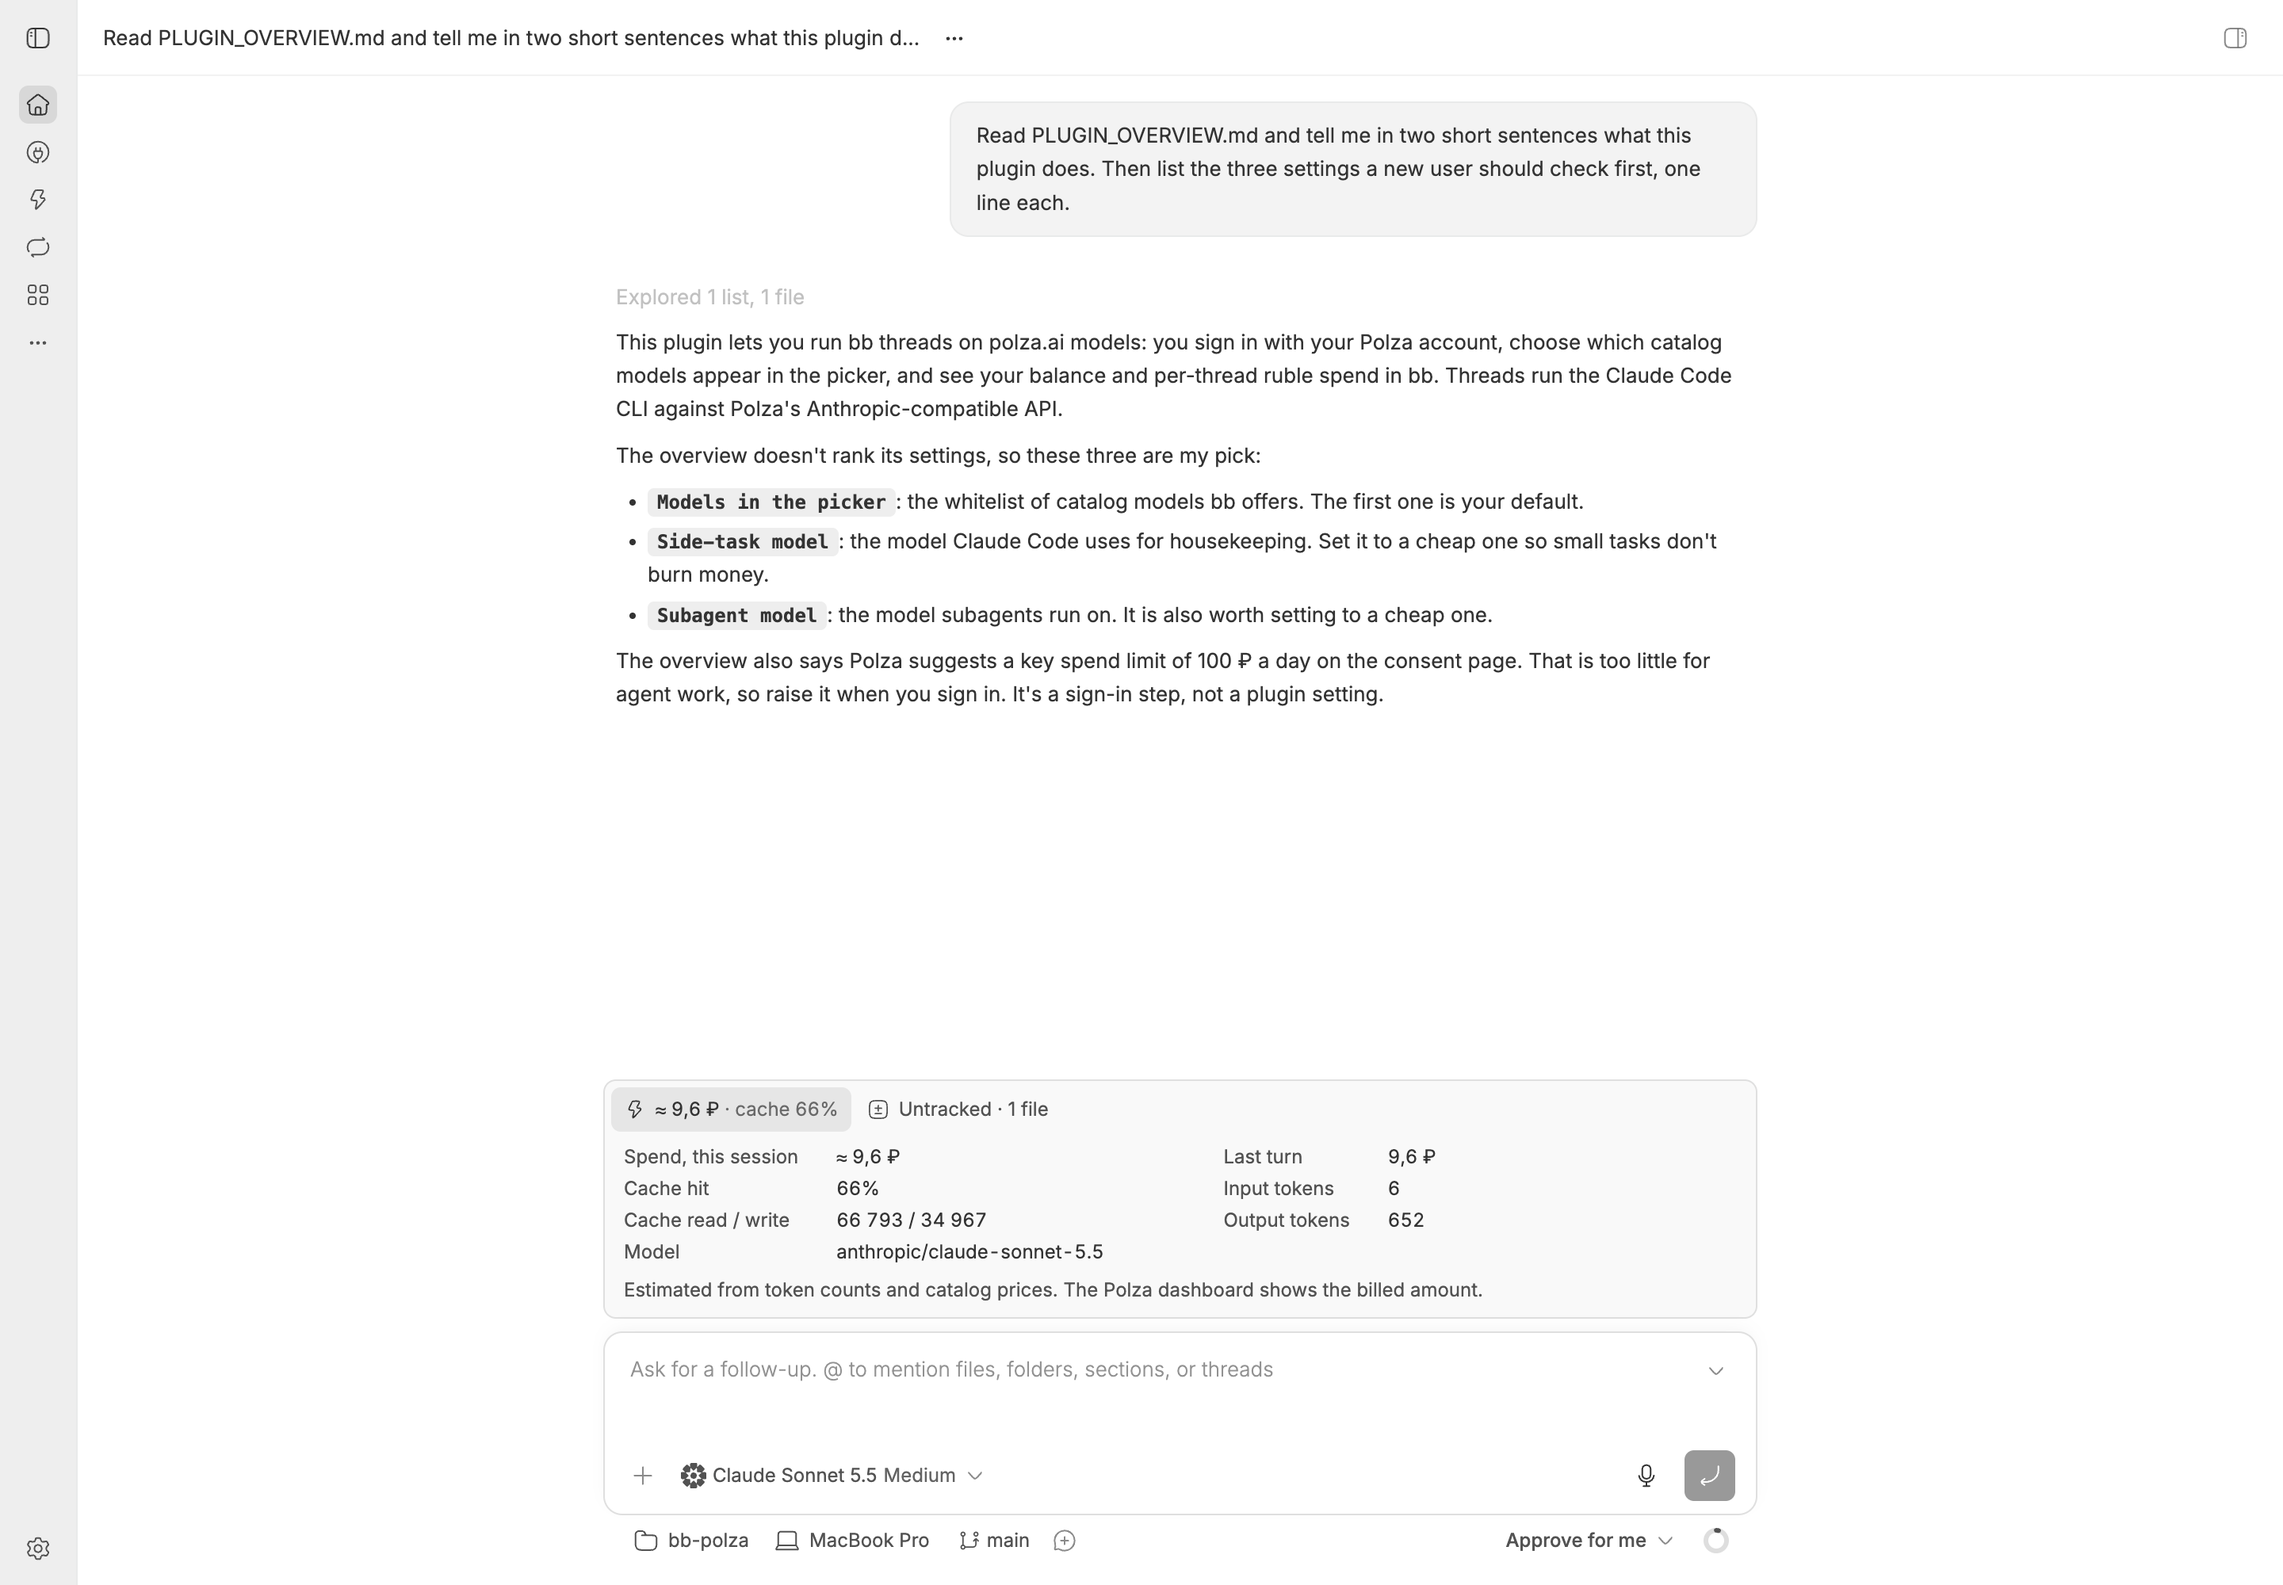
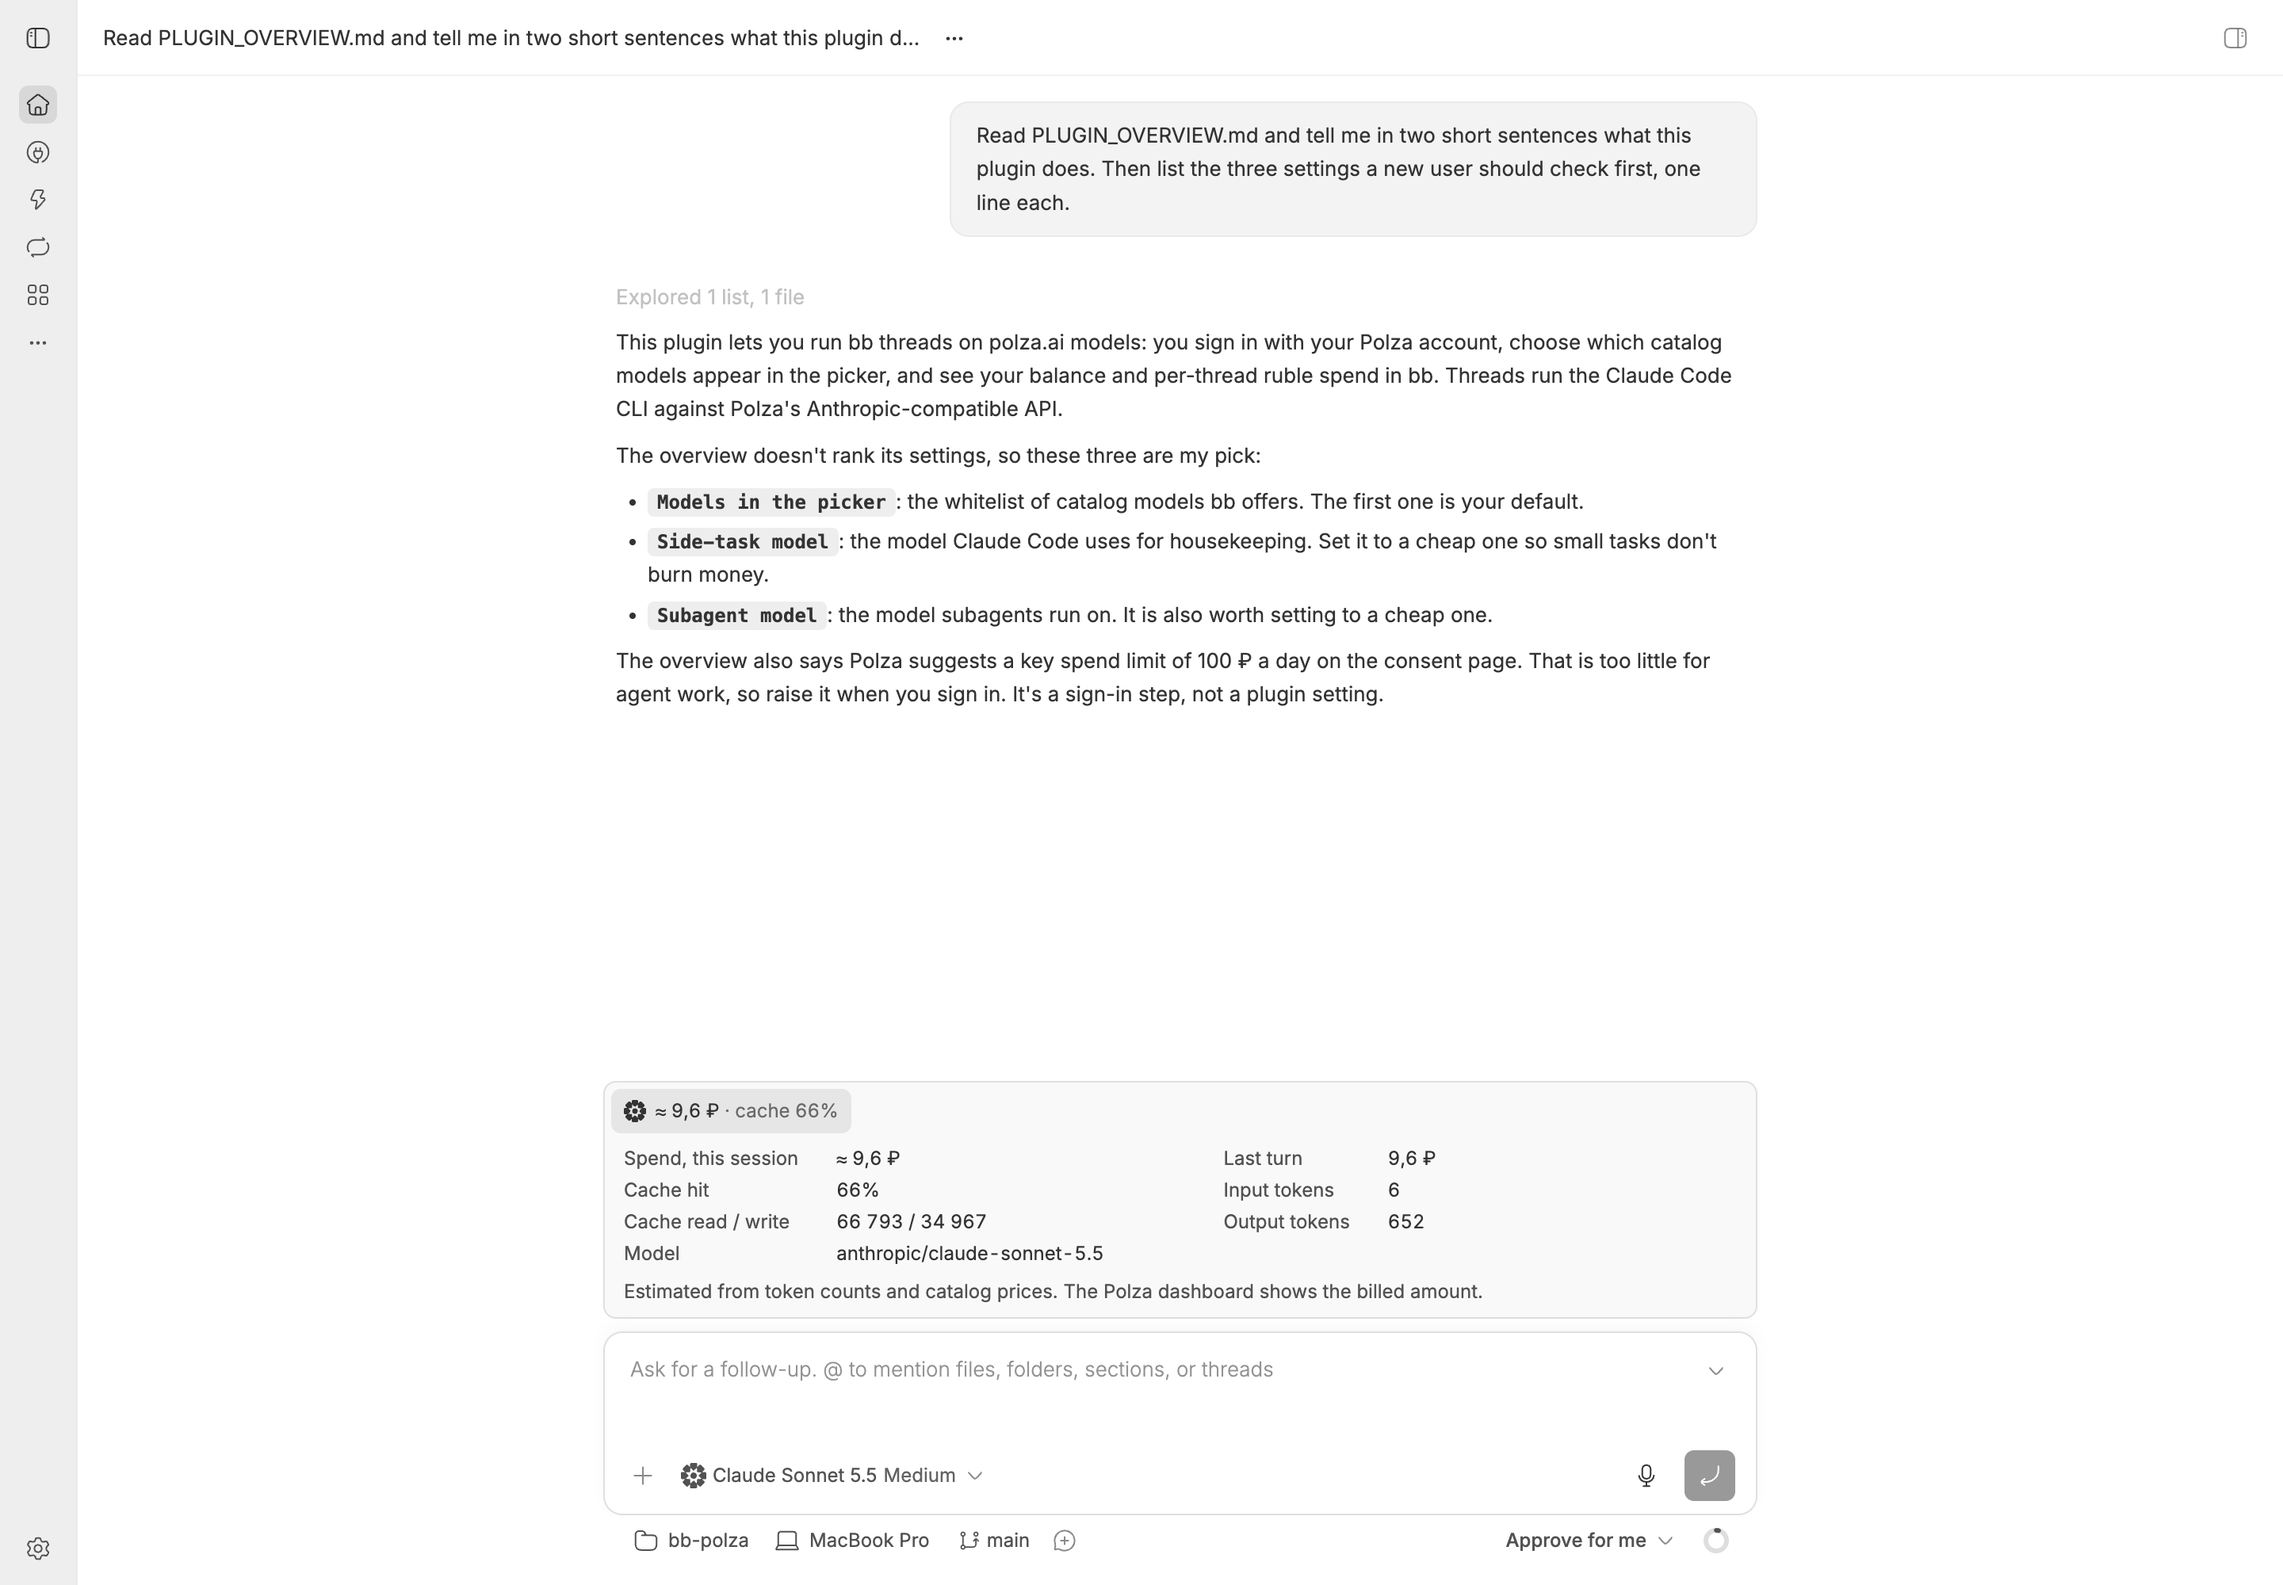
README: thread spend screenshot

diff --git a/README.md b/README.md
@@ -24,6 +24,10 @@ The model picker on the Polza provider: the whitelisted models and reasoning lev
 
 ![bb model picker with Polza models](screenshots/model-picker.png)
 
+A thread on a Polza model: the context row above the composer shows the estimated spend and the prompt-cache hit rate, with token counts on expand.
+
+![Polza thread with the spend segment expanded](screenshots/thread-spend.png)
+
 ## How it works
 
 - The server part keeps the Polza API key as a plugin secret, runs the OAuth PKCE flow (`/api/auth/authorize` → loopback callback → `/api/auth/token`), reads `/v2/balance`, `/v1/key` and `/auth/userinfo`, and registers the `polza` provider.
